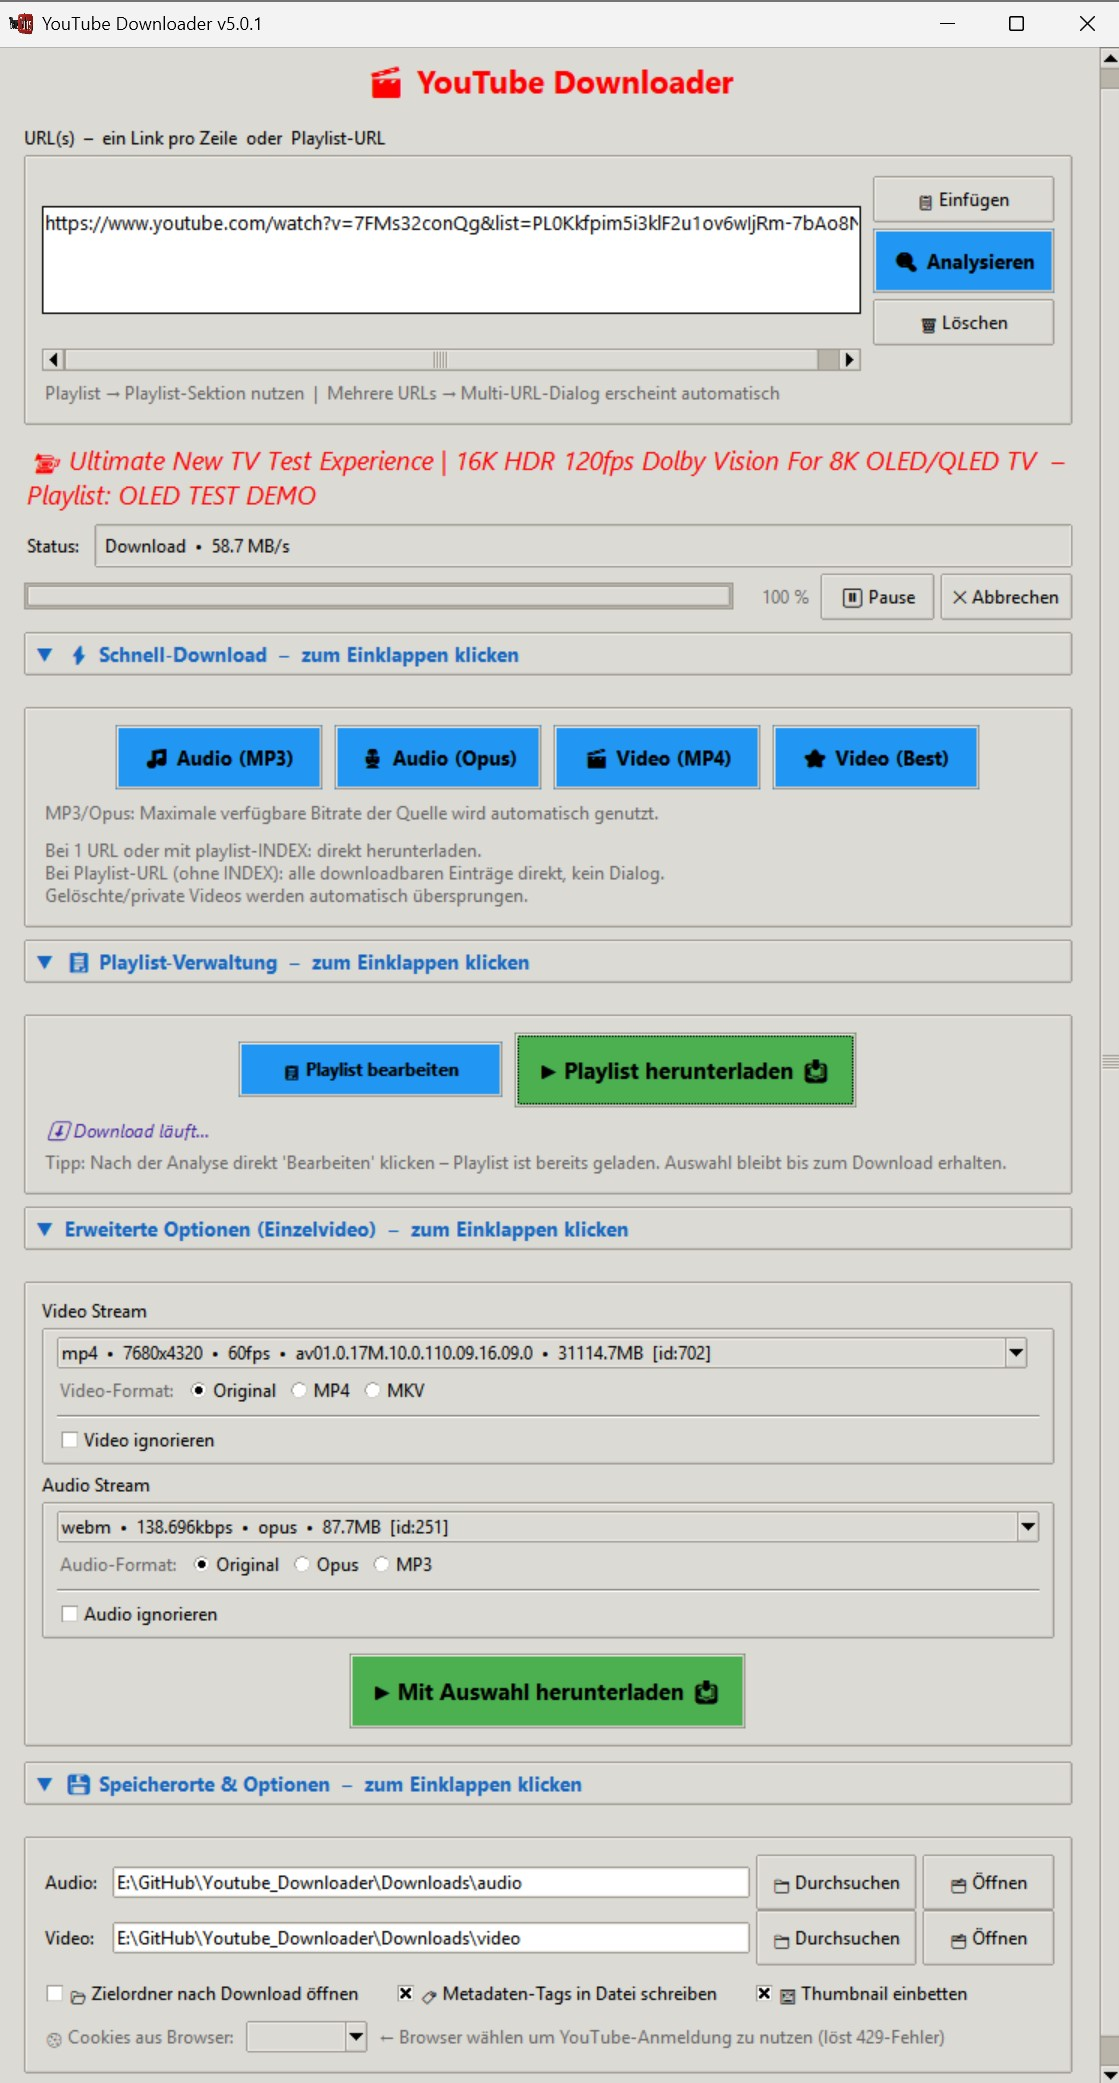
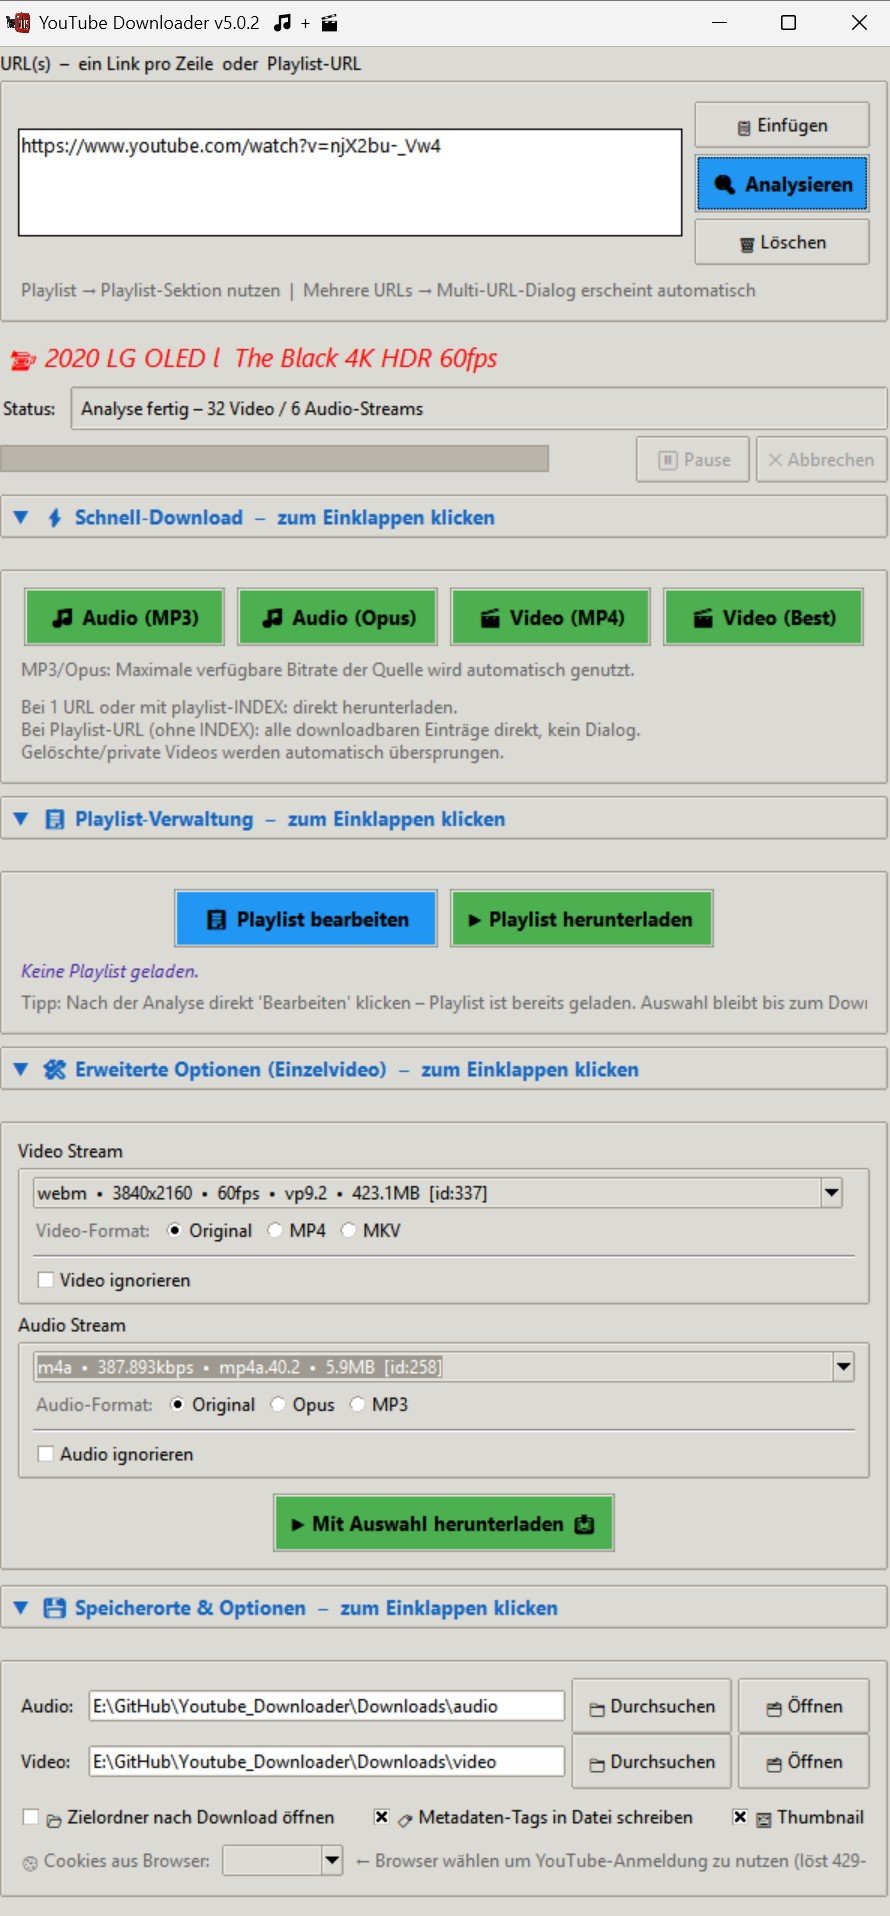
5.0.2
auf wesentliche konzentriert.
* ui kleiner/kompakter.
* analyse/bearbeiten knöpfe → blau
* alle download knöpfe → grün.

diff --git a/yt_downloader_gui.py b/yt_downloader_gui.py
@@ -1,6 +1,6 @@
 # -*- coding: utf-8 -*-
 
-__version__ = '5.0.1'
+__version__ = '5.0.2'
 
 """
 YouTube Downloader GUI
@@ -8,12 +8,12 @@ YouTube Downloader GUI
 Eine benutzerfreundliche grafische Oberfläche zum Herunterladen von Audio und Video
 aus YouTube-Links mit modernem Design und verbessertem Workflow.
 
+Author: Waldemar Koch
+Co-Author: E.S.
+Updated: 2026 März 27
 License: MIT
 """
 # pip install mutagen static-ffmpeg yt-dlp[default]
-
-# mutagen for opus files (just only write thumpnail into file)
-# empfohlen: node installieren für die login cookies, um nicht als bot verdächtigt zu werden.
 
 import os
 import re
@@ -54,9 +54,9 @@ _UNAVAIL_TITLES = {
 
 MODES = [
     ("🎵 Audio (MP3)",       "audio_mp3"),
-    ("🎙 Audio (Opus)",      "audio_opus"),
+    ("🎵 Audio (Opus)",      "audio_opus"),
     ("🎬 Video (MP4)",       "video_mp4"),
-    ("⭐ Video (Best)",      "video_best"),
+    ("🎬 Video (Best)",      "video_best"),
 ]
 MODES_DICT = dict(MODES)
 
@@ -754,7 +754,7 @@ class _BaseSelectionDialog(Toplevel):
         ttk.Button(foot, text="✕ Abbrechen",
                    command=self._cancel).pack(side='right', padx=(6, 0))
         ttk.Button(foot, text="📋✔ Auswahl merken",
-                   style='Primary.TButton', command=self._ok).pack(side='right')
+                   style='Playlist.TButton', command=self._ok).pack(side='right')
 
     # ── Shared-Logik ──────────────────────────────────────────────────────────
 
@@ -1075,10 +1075,10 @@ class MultiURLDialog(_BaseSelectionDialog):
 class YouTubeDownloaderApp:
     def __init__(self, root):
         self.root = root
-        self.root.title(f"YouTube Downloader v{__version__}")
-        self.ui_WEITE = 750
+        self.root.title(f"YouTube Downloader v{__version__}  🎵 + 🎬")
+        self.ui_WEITE = 600
         self.root.geometry(f"{self.ui_WEITE}x600")
-        self.root.minsize(680, 700)
+        self.root.minsize(600, 600)
 
         try:
             self.root.iconbitmap("yt_symbol_small.ico")
@@ -1228,12 +1228,11 @@ class YouTubeDownloaderApp:
         s = ttk.Style()
         s.theme_use('clam')
         s.configure('Primary.TButton',
-                    padding=10, font=('Segoe UI', 10, 'bold'), background="#2196F3")
+                    padding=8, font=('Segoe UI', 10, 'bold'), background="#2196F3")  # blau:2196F3
         s.configure('Action.TButton',
-                    padding=12, font=('Segoe UI', 11, 'bold'), background="#4CAF50") # blau:2196F3 gruen:4CAF50
+                    padding=8, font=('Segoe UI', 10, 'bold'), background="#4CAF50")  # gruen:4CAF50
         s.configure('Secondary.TButton', padding=8, font=('Segoe UI', 9))
-        s.configure('Playlist.TButton',  padding=8, font=('Segoe UI', 9, 'bold'),
-                    background="#2196F3")
+        s.configure('Playlist.TButton',  padding=8, font=('Segoe UI', 10, 'bold'), background="#2196F3")
         s.configure('Title.TLabel',
                     font=('Segoe UI', 16, 'bold'), foreground="#FF0000")
         s.configure('Subtitle.TLabel', font=('Segoe UI', 11, 'bold'))
@@ -1249,7 +1248,7 @@ class YouTubeDownloaderApp:
 
     # ─────────────────────────────────────────────────────────────────────────
     def create_widgets(self):
-        mf = ttk.Frame(self._inner, padding="18")
+        mf = ttk.Frame(self._inner, padding="4")
         mf.grid(row=0, column=0, sticky='nsew')
         self._inner.columnconfigure(0, weight=1)
         mf.columnconfigure(0, weight=1)
@@ -1257,9 +1256,8 @@ class YouTubeDownloaderApp:
         r = 0
 
         # ── Titel ────────────────────────────────────────────────────────────
-        ttk.Label(mf, text="🎬 YouTube Downloader",
-                  style='Title.TLabel').grid(row=r, column=0, pady=(0, 14), sticky='n')
-        r += 1
+        #ttk.Label(mf, text="🎬 YouTube Downloader", style='Title.TLabel').grid(row=r, column=0, pady=(0, 4), sticky='n')
+        #r += 1
 
         # ── URL-Eingabe ──────────────────────────────────────────────────────
         uf = ttk.LabelFrame(mf,
@@ -1366,11 +1364,11 @@ class YouTubeDownloaderApp:
         btn_row.grid(row=0, column=0, sticky='n')
         for txt, cmd in [
             ("🎵 Audio (MP3)",  self.quick_audio_mp3),
-            ("🎙 Audio (Opus)", self.quick_audio_opus),
+            ("🎵 Audio (Opus)", self.quick_audio_opus),
             ("🎬 Video (MP4)",  self.quick_video_mp4),
-            ("⭐ Video (Best)", self.quick_video_best),
+            ("🎬 Video (Best)", self.quick_video_best),
         ]:
-            ttk.Button(btn_row, text=txt, style='Primary.TButton',
+            ttk.Button(btn_row, text=txt, style='Action.TButton',
                        command=cmd, width=16).pack(side='left', padx=4)
 
         ttk.Label(self._qd_frame,
@@ -1431,7 +1429,7 @@ class YouTubeDownloaderApp:
         r += 1
 
         self._adv_toggle_lbl = StringVar(
-            value="▶  Erweiterte Optionen (Einzelvideo)  –  zum Aufklappen klicken")
+            value="▶  🛠 Erweiterte Optionen (Einzelvideo)  –  zum Aufklappen klicken")
         lbl_adv = ttk.Label(adv_header, textvariable=self._adv_toggle_lbl,
                   font=('Segoe UI', 10, 'bold'), foreground='#1565C0', cursor='hand2')
         lbl_adv.grid(row=0, column=0, sticky='w')
@@ -1444,7 +1442,7 @@ class YouTubeDownloaderApp:
         self._sec_adv = {
             'expanded': False, 'frame': self._adv_frame,
             'grid_row': r, 'lbl_var': self._adv_toggle_lbl,
-            'icon_text': "Erweiterte Optionen (Einzelvideo)", 'pady': (0, 10),
+            'icon_text': "🛠 Erweiterte Optionen (Einzelvideo)", 'pady': (0, 10),
         }
         r += 1
 
@@ -2657,9 +2655,9 @@ class YouTubeDownloaderApp:
         Thread(target=t, daemon=True).start()
 
     def quick_audio_mp3(self):   self._quick_download('audio_mp3',  '0', "🎵 Audio (MP3) lädt...")
-    def quick_audio_opus(self):  self._quick_download('audio_opus', '0', "🎙 Audio (Opus) lädt...")
+    def quick_audio_opus(self):  self._quick_download('audio_opus', '0', "🎵 Audio (Opus) lädt...")
     def quick_video_mp4(self):   self._quick_download('video_mp4',  '0', "🎬 Video (MP4) lädt...")
-    def quick_video_best(self):  self._quick_download('video_best', '0', "⭐ Video Max lädt...")
+    def quick_video_best(self):  self._quick_download('video_best', '0', "🎬 Video Max lädt...")
 
     # Kompatibilitäts-Aliase
     def download_audio(self):      self.quick_audio_mp3()
